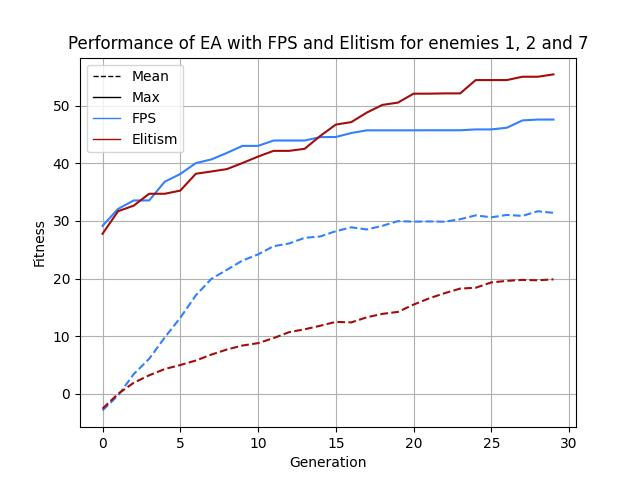
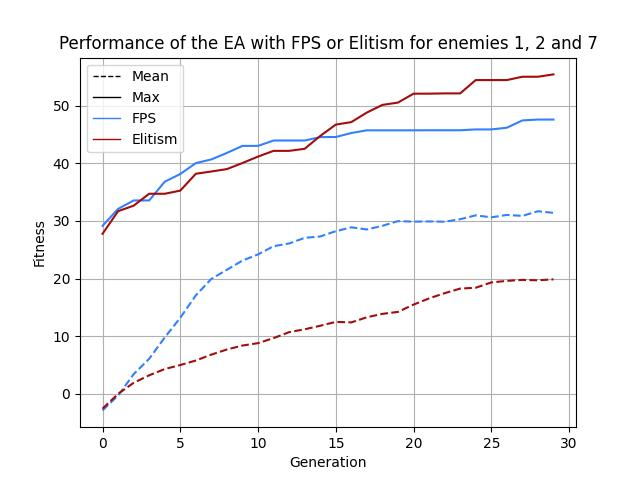
updated plots

Changed region(s): [[0.0938, 0.0625, 0.9375, 0.125]]

diff --git a/generalist_visualisations.py b/generalist_visualisations.py
@@ -23,7 +23,7 @@ def create_plot(list, enemies):
     # create the plot 
     plt.plot()
     plt.grid('on')
-    plt.title(f'Performance of EA with FPS and Elitism for enemies {enemies}')
+    plt.title(f'Performance of the EA with FPS or Elitism for enemies {enemies}')
     plt.xlabel('Generation')
     plt.ylabel('Fitness')
 
@@ -111,7 +111,7 @@ if __name__ == "__main__":
 
     total_df = [[fps_368, elite_368], [fps_127, elite_127]]
     enemies = ['3, 6 and 8', '1, 2 and 7']
-    
+
     # create line- and boxplots 
     for list, e in zip(total_df, enemies):
         create_plot(list, e)
